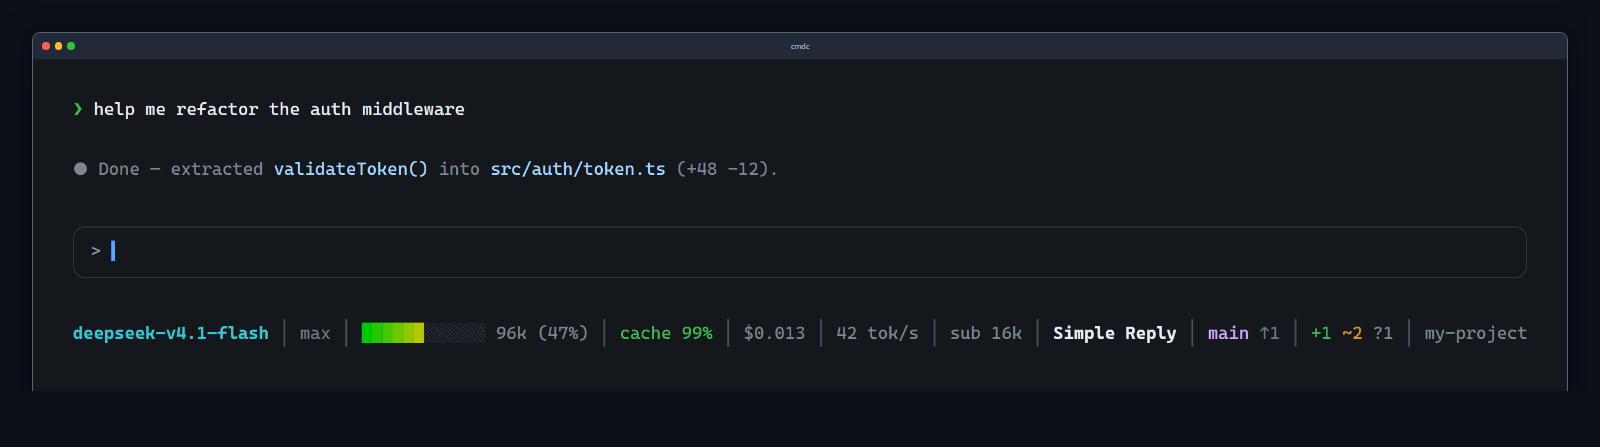
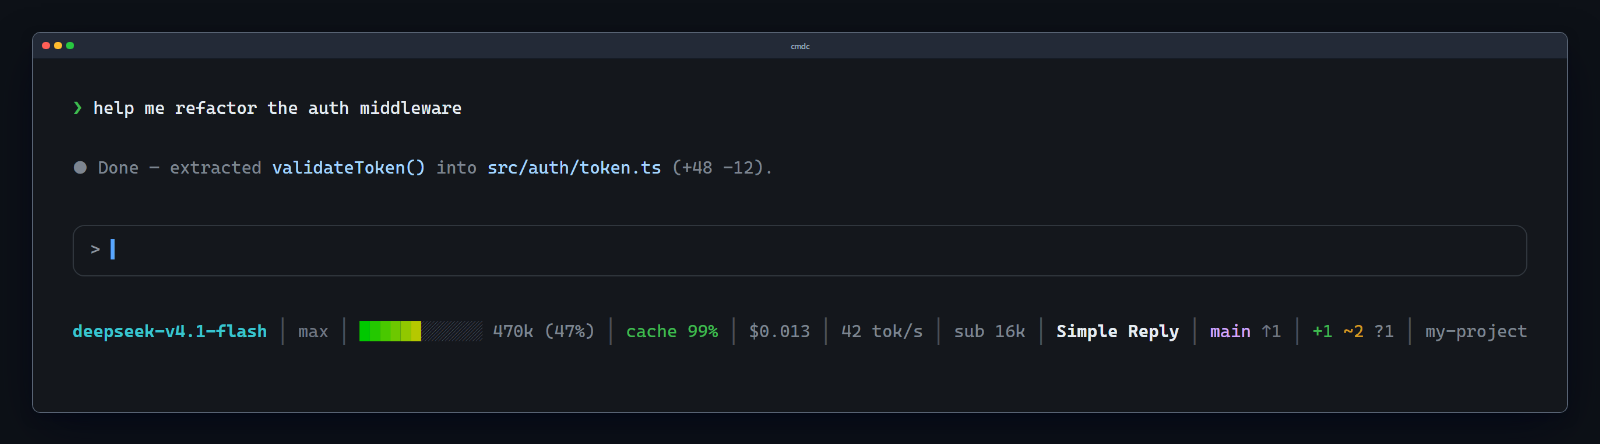
docs: re-render the demo screenshot so it shows the 470k figure
Generated with [Devin](https://devin.ai)

Changed region(s): [[0.0312, 0.7027, 0.9688, 0.7905], [0.0625, 0.3514, 0.5, 0.4099], [0.0625, 0.2342, 0.3125, 0.2635]]

diff --git a/docs/statusline.html b/docs/statusline.html
@@ -1,9 +1,9 @@
 <!doctype html>
 <!-- cmdc-statusline 演示图：配色按 index.ts 的 ANSI 输出还原（bold cyan 模型 / dim effort /
-     绿→红按格位渐变的进度条 / magenta 分支 / +绿 ~黄 ?灰），改完用 kit-capture 截 #screen。
-     TODO: statusline.png 还是旧图（显示 96k）。本文件已改为 470k
-     （deepseek-v4.1-flash 窗口 1M，47% 与 6/12 格才自洽），需在 Windows 侧
-     用 kit-capture 对 #screen 重截一次覆盖 docs/statusline.png。 -->
+     绿→红按格位渐变的进度条 / magenta 分支 / +绿 ~黄 ?灰）。出图流程：kit-capture
+     interact 截 #screen（--dsf 2）→ kit-shotframe --preset macos --title cmdc
+     --bg solid:#0d1117 --width 1600。注意用 Edge 渲染（--chromium 指向 msedge.exe），
+     本机 Chrome 的 --headless=new --screenshot 会在右/下边缘漏白边。 -->
 <html>
 <head>
 <meta charset="utf-8">
